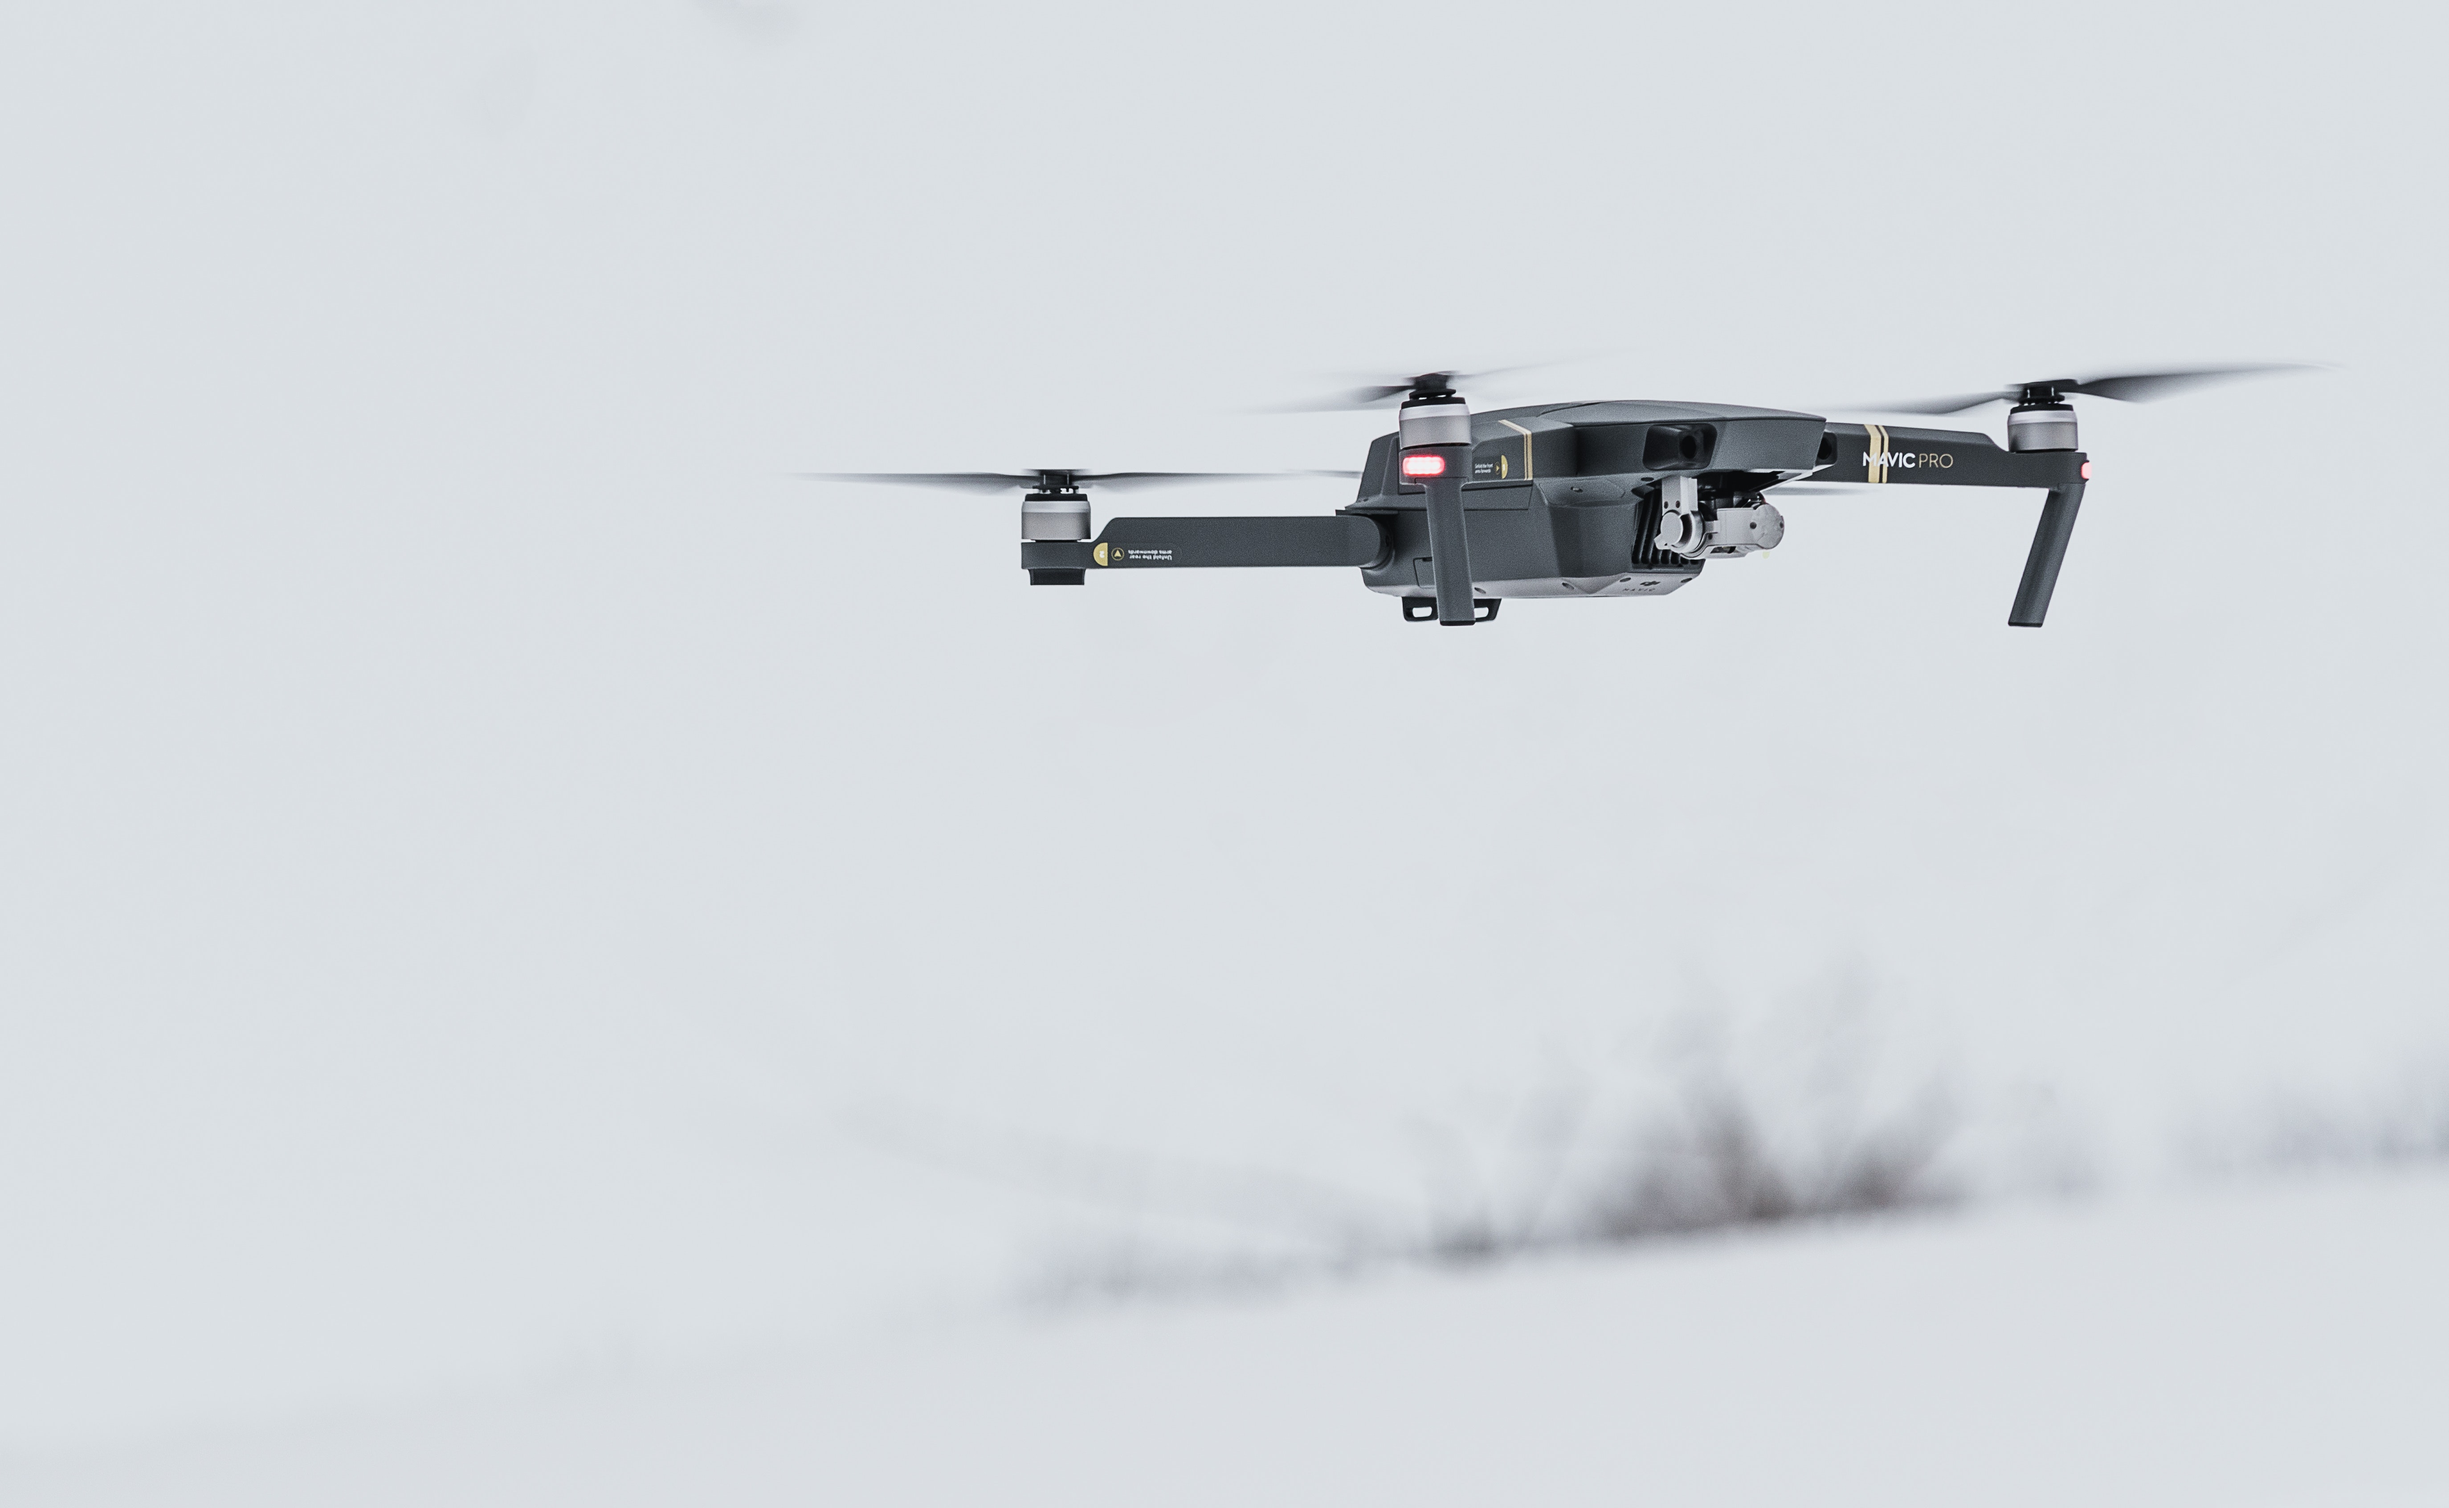
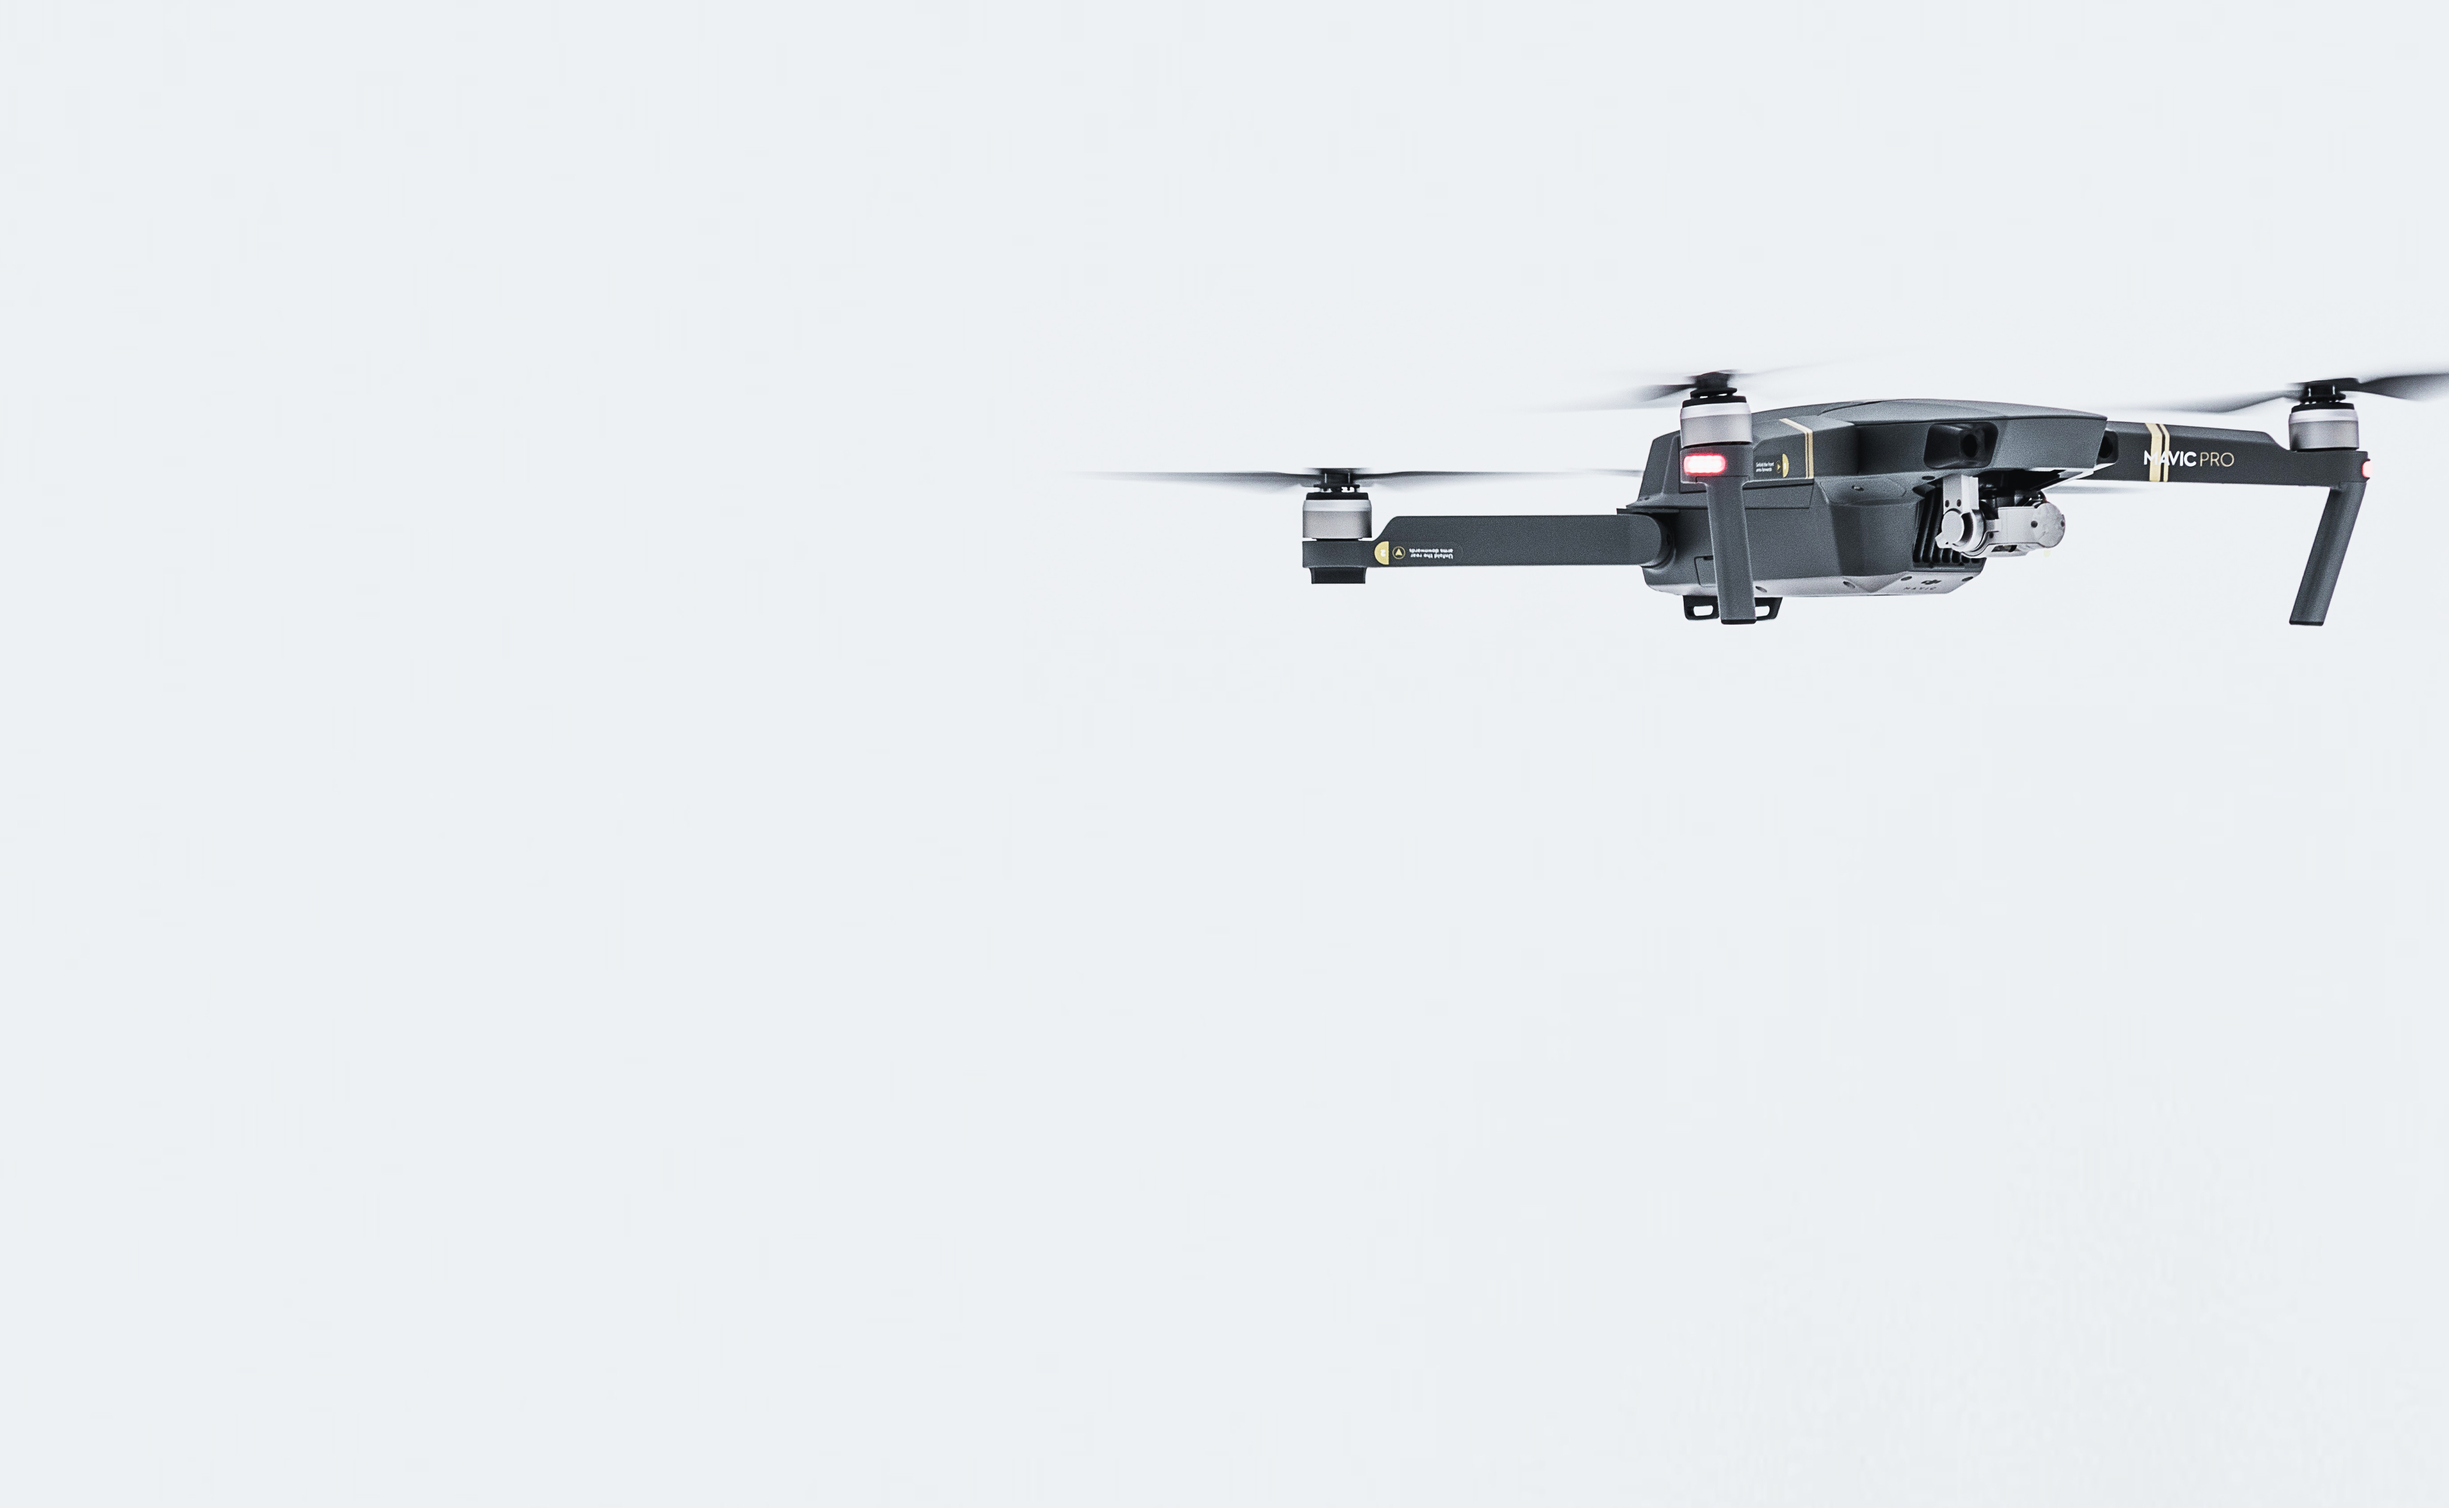
Updated

Changed region(s): [[0.3421, 0.2171, 1.0, 0.4343], [0.3421, 0.6204, 1.0, 0.8996], [0.2799, 0.0, 0.3421, 0.031]]

diff --git a/src/app/app.component.scss b/src/app/app.component.scss
@@ -4,17 +4,17 @@
   position: absolute;
   top: 0;
   width: 100%;
-  height: 80px;
-
+  height: 70px;
+  background-color: #fff;
   .header-internal {
     display: flex;
     width: 100%;
-    height: 80px;
+    height: 70px;
     align-items: center;
     align-content: center;
     img {
       margin-left: 20px;
-      height: 20px;
+      height: 25px;
     }
     .right {
       margin-left: auto;
@@ -26,7 +26,6 @@
 }
 
 .content {
-  padding-top-top: 80px;
   height: 100%;
 }
 
@@ -39,13 +38,14 @@
 
 .dark-callout {
   font-family: avantgarde_lt_mediumbold, sans-serif;
-  font-size: 80px;
+  font-size: 75px;
   color: $dark;
 }
 
 .links {
   .link-button {
     margin-right: 20px;
+    color: $dark;
   }
 }
 
@@ -56,7 +56,15 @@
   border: none;
 }
 
+.login-button {
+  background-color: $dark;
+  color: #fff !important;
+  padding: 12px 25px 12px 25px;
+  border-radius: 100px;
+}
+
 .callout-button {
+  color: white !important;
   border-radius: 100px;
   padding: 10px 20px 10px 20px;
   background-color: #24262b;
@@ -105,11 +113,16 @@
   display: flex;
   align-items: center;
   height: 95%;
-  background-image: url("../assets/img/drone.jpg");
-  background-size: cover;
-  background-position: center;
-  background-repeat: no-repeat;
   margin-bottom: 50px;
+  .panel-1-background {
+    height: 100%;
+    width: 100%;
+    position: absolute;
+    background-image: url("../assets/img/drone.jpg");
+    background-size: cover;
+    background-position: center;
+    background-repeat: no-repeat;
+  }
 }
 
 .panel-2 {
@@ -163,79 +176,7 @@
 
 
 
-
-#sd {
-  &-container {
-    position: fixed;
-    bottom: 90px;
-    right: 25px;
-  }
-}
-
-.arrow {
-  position: relative;
-  width: 42px;
-  height: 16px;
-  opacity: 0;
-
-  &::before,
-  &::after {
-    content: "";
-    width:21px;
-    height: 2px;
-    background-color: #373737;
-    border-radius: 2px;
-    display: inline-block;
-  }
-
-  &::before {
-    transform: rotate(45deg) translateX(25%)
-  }
-
-  &::after {
-    transform: rotate(-45deg) translateX(-25%)
-  }
-
-  &:nth-child(1) {
-    top: -50px;
-    opacity: 1;
-    animation: arrow2 1s ease 0s infinite;
-  }
-
-  &:nth-child(2) {
-    top: -25px;
-    animation: arrow1 1s ease 0.25s infinite;
-  }
-}
-
-@keyframes arrow1 {
-  from {
-    opacity: 0;
-    top: -25px;
-  }
-
-  to {
-    opacity: 0;
-    top: 0px;
-  }
-
-  50% {
-    opacity: 1;
-  }
-}
-
-@keyframes arrow2 {
-  from {
-    opacity: 0;
-    top: -35px;
-  }
-
-  to {
-    opacity: 0;
-    top: -10px;
-  }
-
-  50% {
-    opacity: 1;
-  }
+.list-header {
+  font-weight: bold;
+  font-size: 24px;
 }

diff --git a/src/app/app.component.html b/src/app/app.component.html
@@ -13,14 +13,16 @@
 <div id="content-wrapper" class="content" [mnFullpage]="options">
 
   <div class="panel-1 fp-section">
+    <div class="panel-1-background rellax" data-rellax-speed="10"></div>
+    <!--<div style="height:100%; background: #000; position: absolute; left: 0; width: 50%;"></div>-->
 
-    <div class="header">
+    <div class="header" data-aos="fade-down" data-aos-delay="500">
       <div class="header-internal">
-        <img src="../assets/svg/simlynx-logo.svg" data-aos="fade-right" data-aos-delay="500">
-        <div class="right links" data-aos="fade-left" data-aos-delay="500">
+        <img src="../assets/svg/simlynx-logo-small.svg">
+        <div class="right links">
           <button class="link-button">About</button>
           <button class="link-button">Docs</button>
-          <button class="link-button callout-button">Login</button>
+          <button class="link-button login-button">Login</button>
         </div>
       </div>
     </div>
@@ -28,7 +30,7 @@
     <div class="container">
       <div class="row">
         <div class="col-12">
-          <div class="callout" data-aos="zoom-in">America's #1 <br/> cellular module.</div>
+          <div class="callout" data-aos="zoom-in">Cellular, <br/>For Everyone</div>
         </div>
       </div>
     </div>
@@ -89,8 +91,8 @@
   <div class="panel-3 fp-section">
     <div class="container">
       <div class="row">
-        <div class="col-6">
-          <div style="margin-bottom: 90px;" class="dark-callout" data-aos="fade-right">2 Flavors</div></div>
+        <div class="col-8">
+          <div style="margin-bottom: 90px;" class="dark-callout" data-aos="fade-right">The Flavors</div></div>
       </div>
     </div>
     <div class="panel-3-internal">
@@ -151,8 +153,27 @@
   <div class="panel-2 fp-section">
     <div class="container">
       <div class="row">
-        <div class="col-4 card" data-aos="fade-up">
-          Product
+        <div class="col-6"></div>
+        <div class="col-6">
+          <div style="margin-bottom: 90px; text-align: right" class="dark-callout" data-aos="fade-left">The Meat</div>
+        </div>
+      </div>
+    </div>
+    <div class="panel-2-internal">
+      <div class="container">
+        <div class="row">
+          <div class="col-4 card" data-aos="fade-up">
+
+
+            <ul>
+              <li class="list-header">Protocols</li>
+              <li>Some Protocol</li>
+              <li>Some Protocol</li>
+              <li>Some Protocol</li>
+            </ul>
+
+
+          </div>
         </div>
       </div>
     </div>

diff --git a/src/styles.scss b/src/styles.scss
@@ -55,20 +55,20 @@ table {
 
 //----------------------------------->>>>
 
-@font-face {
-  font-family: 'avantgarde_lt_mediumbold';
-  src: url('assets/fonts/webfontkit-avant/itc_avant_garde_gothic_lt_bold_1-webfont.woff2') format('woff2'),
-  url('assets/fonts/webfontkit-avant/itc_avant_garde_gothic_lt_bold_1-webfont.woff') format('woff');
-  font-weight: normal;
-  font-style: normal;
-}
-
-@font-face {
-  font-family: "circular";
-  src:url("assets/fonts/webfontkit-circular/Circular.woff2") format("woff2"),url("assets/fonts/webfontkit-circular/Circular.woff") format("woff"),url("assets/fonts/webfontkit-circular/Circular.otf") format("opentype");
-  font-weight: normal;
-  font-style:normal;
-}
+//@font-face {
+//  font-family: 'avantgarde_lt_mediumbold';
+//  src: url('./assets/fonts/webfontkit-avant/itc_avant_garde_gothic_lt_bold_1-webfont.woff2') format('woff2'),
+//  url('./assets/fonts/webfontkit-avant/itc_avant_garde_gothic_lt_bold_1-webfont.woff') format('woff');
+//  font-weight: normal;
+//  font-style: normal;
+//}
+//
+//@font-face {
+//  font-family: "circular";
+//  src:url("./assets/fonts/webfontkit-circular/Circular.woff2") format("woff2"),url("assets/fonts/webfontkit-circular/Circular.woff") format("woff"),url("assets/fonts/webfontkit-circular/Circular.otf") format("opentype");
+//  font-weight: normal;
+//  font-style:normal;
+//}
 
 * {
   font-family: circular, sans-serif;

diff --git a/src/app/app.component.ts b/src/app/app.component.ts
@@ -1,17 +1,18 @@
-import {Component, Input} from '@angular/core';
+import {AfterViewInit, Component, Input} from '@angular/core';
 
-import * as animateOnScroll from 'aos';
 import {MnFullpageOptions, MnFullpageService} from 'ngx-fullpage';
 
+import * as Rellax from 'rellax';
+import * as animateOnScroll from 'aos';
 export const aos = animateOnScroll;
-import * as $ from 'jquery';
+
 
 @Component({
   selector: 'app-root',
   templateUrl: './app.component.html',
   styleUrls: ['./app.component.scss']
 })
-export class AppComponent {
+export class AppComponent implements AfterViewInit {
   title = 'app';
 
 
@@ -22,19 +23,23 @@ export class AppComponent {
     scrollBar: true,
     menu: '.header',
     verticalCentered: false,
-    dragAndMove: true,
     navigation: true,
+    dragAndMove: true,
 
     // menu: '.menu',
     // css3: true,
     anchors: [
-      'menuAnchor1', 'menuAnchor2', 'menuAnchor3',
-      'menuAnchor4', 'menuAnchor5', 'menuAnchor6'
+      'Home', 'Gist', 'Flavors',
+      'Meat', 'End'
     ]
   });
 
   constructor(public fullpage: MnFullpageService) {
     aos.init();
+  }
+
+  ngAfterViewInit() {
+    let rellax = new Rellax('.rellax');
   }
 
 }

diff --git a/src/assets/fonts/webfontkit-circular/Circular.css b/src/assets/fonts/webfontkit-circular/Circular.css
@@ -1,7 +1,6 @@
 
 @font-face {
-    font-family:"CircularStd-Book";
+    font-family:"circular";
     src:url("Circular.woff2") format("woff2"),url("Circular.woff") format("woff"),url("Circular.otf") format("opentype");
     font-style:normal;font-weight:400;
 }
-        

diff --git a/src/index.html b/src/index.html
@@ -10,6 +10,9 @@
 </head>
 
 
+  <link rel="stylesheet" type="text/css" href="assets/fonts/webfontkit-avant/stylesheet.css">
+  <link rel="stylesheet" type="text/css" href="assets/fonts/webfontkit-circular/Circular.css">
+
 
 <body>
   <app-root></app-root>

diff --git a/src/typings.d.ts b/src/typings.d.ts
@@ -4,3 +4,5 @@ declare var module: NodeModule;
 interface NodeModule {
   id: string;
 }
+
+declare var $: any;
